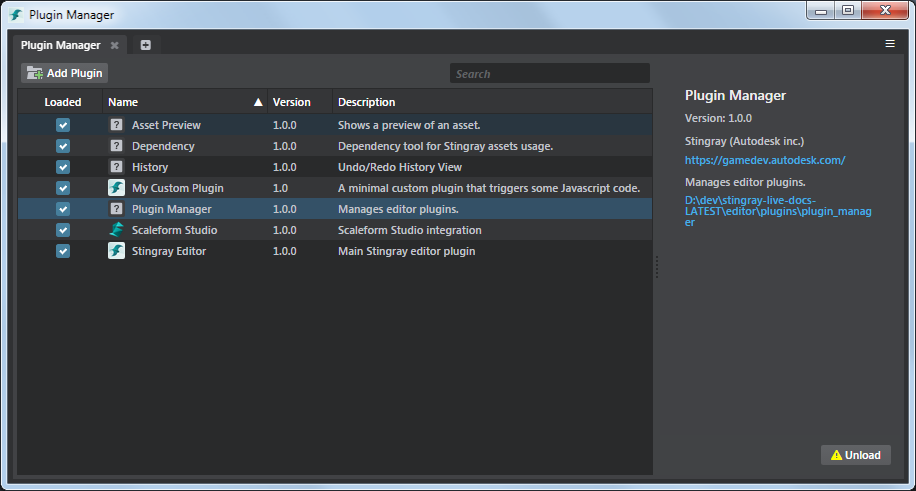
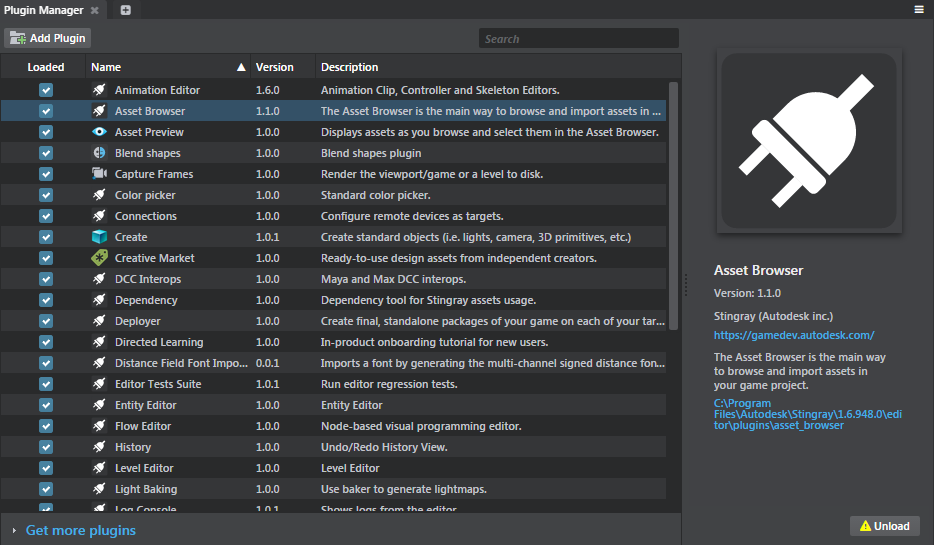
Update docs for plugin downloads

diff --git a/source/stingray_help/plugins/add_remove_plugins.md b/source/stingray_help/plugins/add_remove_plugins.md
@@ -1,5 +1,7 @@
 # Add and remove plug-ins using the Plugin Manager
 
+![UPDATED](../images/updated.png)
+
 -	**Window > Plugin Manager**
 
 The **Plugin Manager** panel lists each plug-in visible to the Stingray Editor, along with detailed information and activation status for each. You can use this panel to control which plug-ins are currently active in the Editor.
@@ -26,6 +28,12 @@ To load a plug-in that is already listed in the **Plugin Manager**, either:
 -	Check its checkbox in the **Loaded** column of the list view.
 -	Or, select the plug-in in the list view and click the **Load** button at the bottom right.
 
+## Download a plug-in
+
+[![NEW](../images/new.png "What else is new in v1.6?")](../release_notes/readme_1.6.html)
+
+To download a new Stingray plug-in not listed in the **Plugin Manager**, click **Get more plugins** at the bottom of the list view, then select any of the available plugins and click **Install**. Once downloaded, the plug-in is loaded in the **Plugin Manager**.
+
 ## Make a new plug-in visible to the Plugin Manager
 
 If you want to load a new plug-in that isn't already listed in the **Plugin Manager**, you can install it using either of the following methods:
@@ -41,13 +49,13 @@ The **Plugin Manager** looks for plug-ins in the following locations:
 
 -	Under the *editor/plugins* folder in your Stingray installation directory.
 -	In the current project.
--	In each folder that contains a plug-in you added through the **Add Plugin** button.
+-	In each folder that contains a plug-in you added through the **Add Plugin** or the **Get more plugins** button.
 
 ## Remove a plug-in from the Plugin Manager
 
 To remove a plug-in entirely so that it's no longer listed in the **Plugin Manager**, select the plug-in in the list view and click the **Remove** button at the bottom right.
 
-Note that you can only remove plug-ins that you have installed using the **Add Plugin** button. You cannot remove any standard plug-ins that are installed with Stingray, or any plug-ins that are found in the current project; you can only unload them.
+Note that you can only remove plug-ins that you have installed using the **Add Plugin** or the **Get more plugins**  button. You cannot remove any standard plug-ins that are installed with Stingray, or any plug-ins that are found in the current project; you can only unload them.
 
 Alternatively, you can delete the plug-in you want to remove from disk (or move it to another location on your computer), then press **F5** to refresh the list.
 

diff --git a/source/stingray_help/release_notes/readme_1.6.md b/source/stingray_help/release_notes/readme_1.6.md
@@ -67,6 +67,10 @@ Stingray projects now use the unique file extension *.stingray_project*, making 
 
 Stingray includes new texture categories and templates such as Normal, Linear Greyscale, Albedo, Albedo Opacity and Roughness/Metallic/AO to help you categorize textures and apply texture settings. The newly added texture templates in the **Texture Manager** come with default compression settings to work on each supported platform. The textures imported in your project are now assigned the default compression settings. See ~{ Import a model with textures and materials }~.
 
+### Download new plug-ins
+
+Download new Stingray plug-ins and update existing ones using the **Get more plugins** selection in the **Plugin Manager**. Select any of the available plugins and click **Install** to download it. See ~{ Add and remove plug-ins using the Plugin Manager }~.
+
 [Return to top](#top)
 
 ## What's Fixed

diff --git a/source/stingray_help/getting_started/open_existing_project.md b/source/stingray_help/getting_started/open_existing_project.md
@@ -2,7 +2,7 @@
 
 [![UPDATED](../images/updated.png "What else is new in v1.6?")](../release_notes/readme_1.6.html)
 
-The Stingray Editor keeps track of the projects you create and work on. You can can easily re-open any project when you launch the editor, or by opening the **Project Manager** from the **File** menu.
+The Stingray Editor keeps track of the projects you create and work on. You can easily re-open any project when you launch the editor, or by opening the **Project Manager** from the **File** menu.
 
 [![NEW](../images/new.png "What else is new in v1.6?")](../release_notes/readme_1.6.html) You can also double-click a Stingray project file (`.stingray_project`) to open the project in the Stingray Editor, provided no other projects are running at the moment.
 
